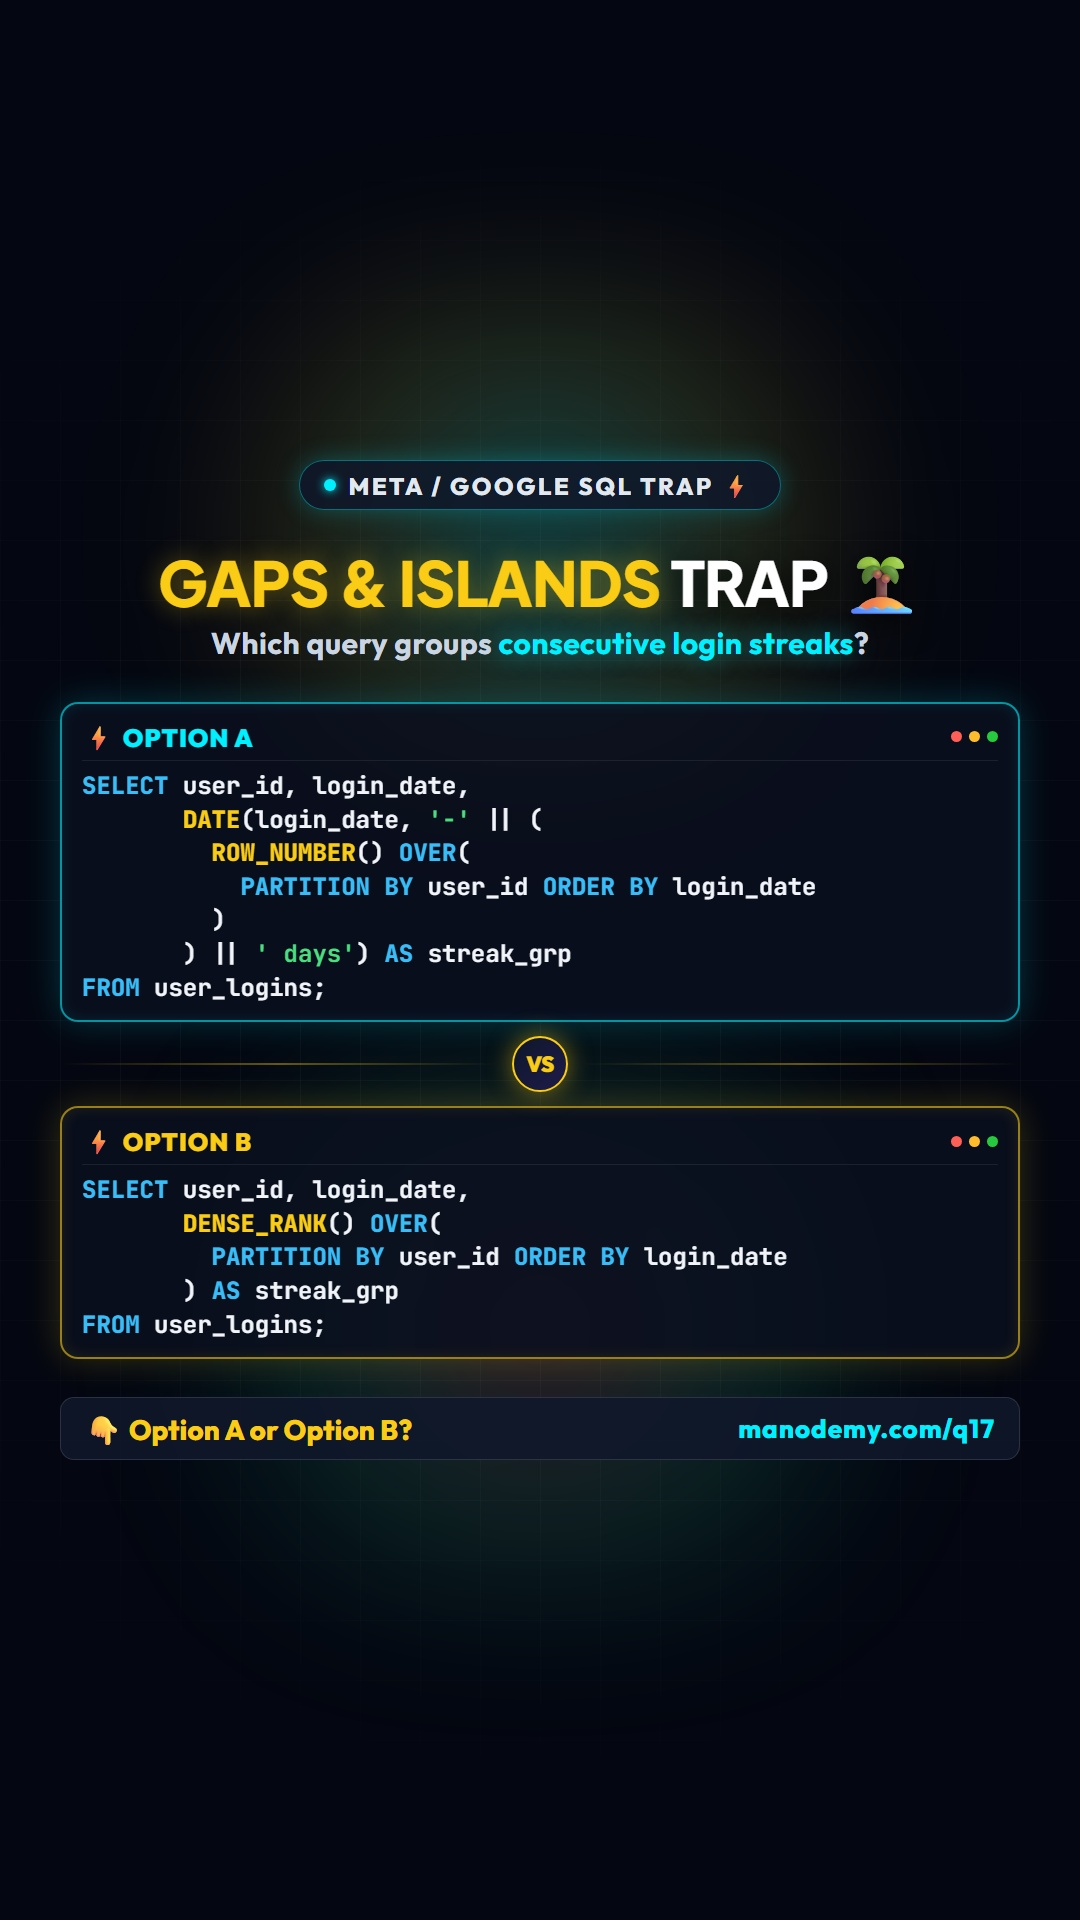
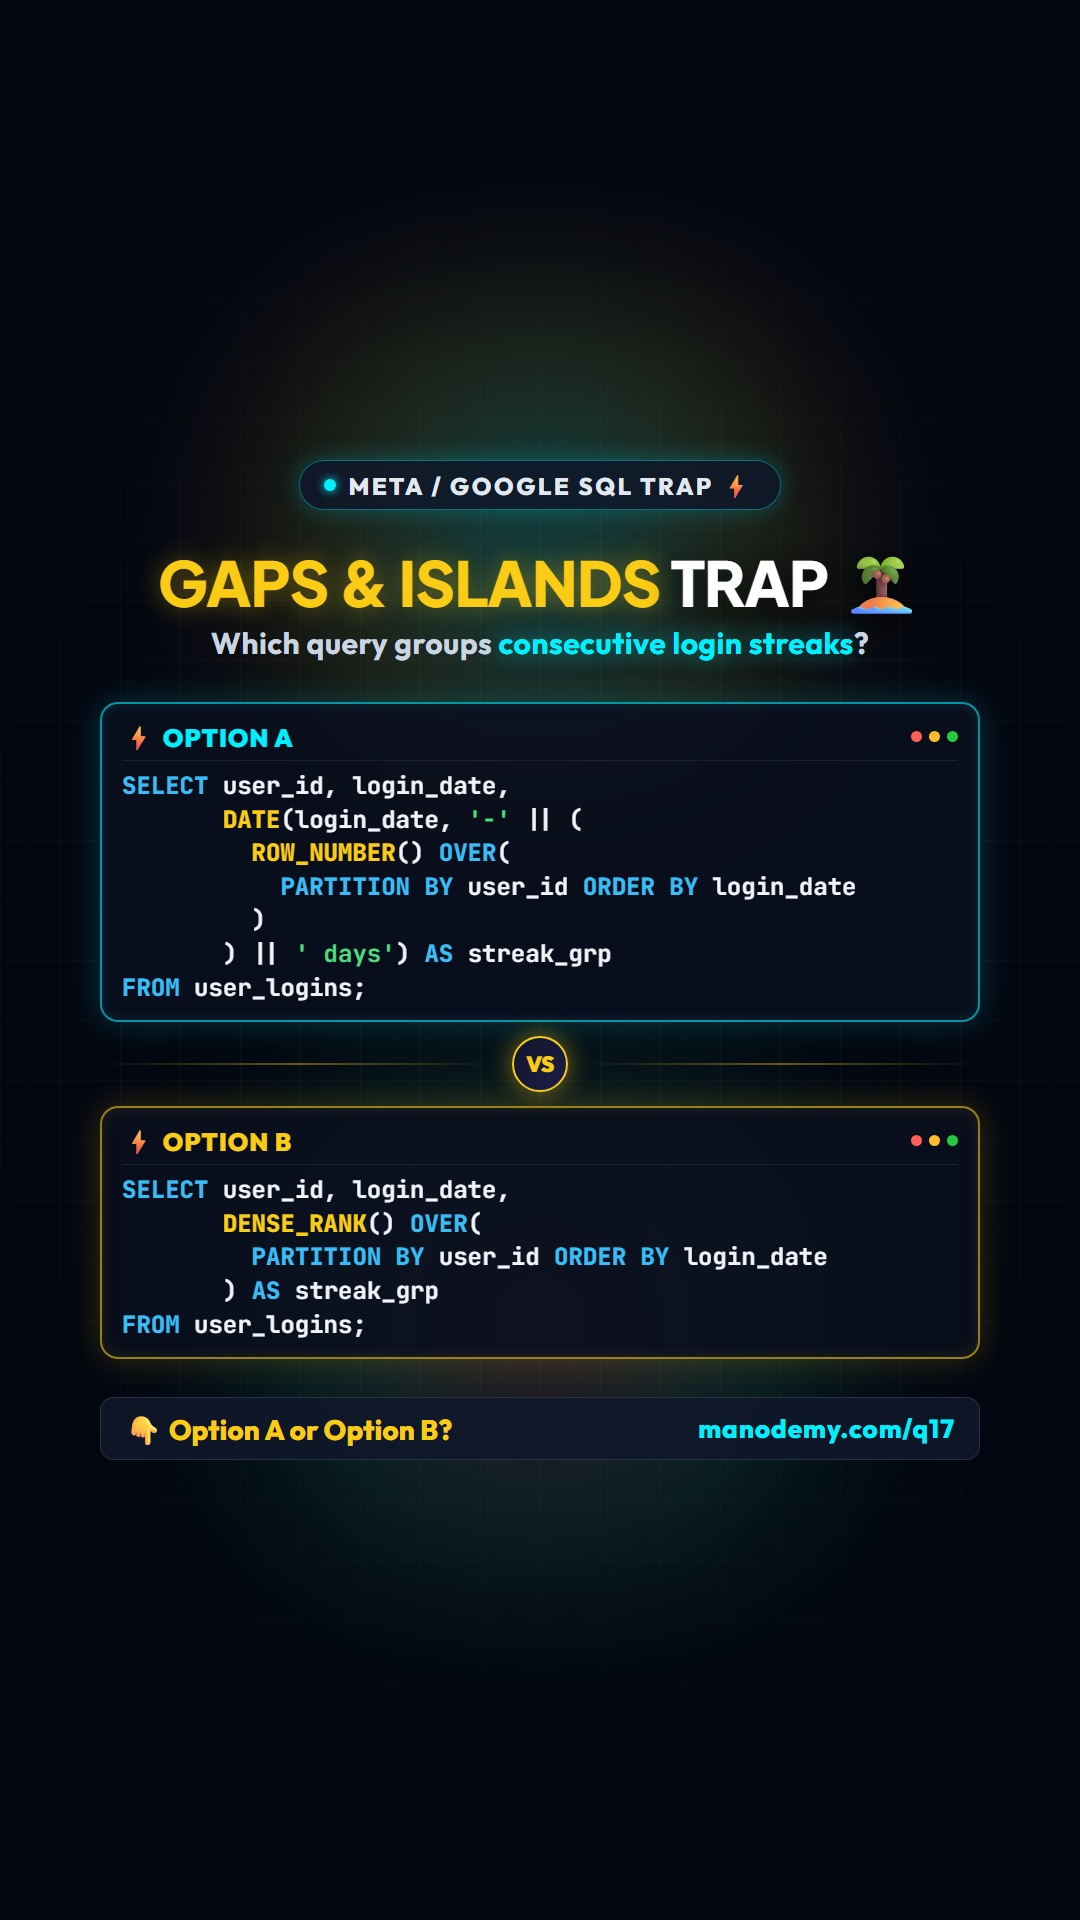
fix(marketing): set 880px container width for 100px bulletproof side margins on desktop and mobile upload modals

diff --git a/marketing/generate_sample_cover.py b/marketing/generate_sample_cover.py
@@ -76,7 +76,7 @@ HTML_COVER = """<!DOCTYPE html>
 
   /* 1:1 Instagram Profile Grid Safe Container (1080 x 1080) */
   .safe-container {
-    width: 1000px;
+    width: 880px;
     height: 1040px;
     position: relative;
     z-index: 10;
@@ -84,7 +84,7 @@ HTML_COVER = """<!DOCTYPE html>
     flex-direction: column;
     align-items: center;
     justify-content: space-between;
-    padding: 20px 20px;
+    padding: 20px 0;
   }
 
   /* Top Category Pill */
